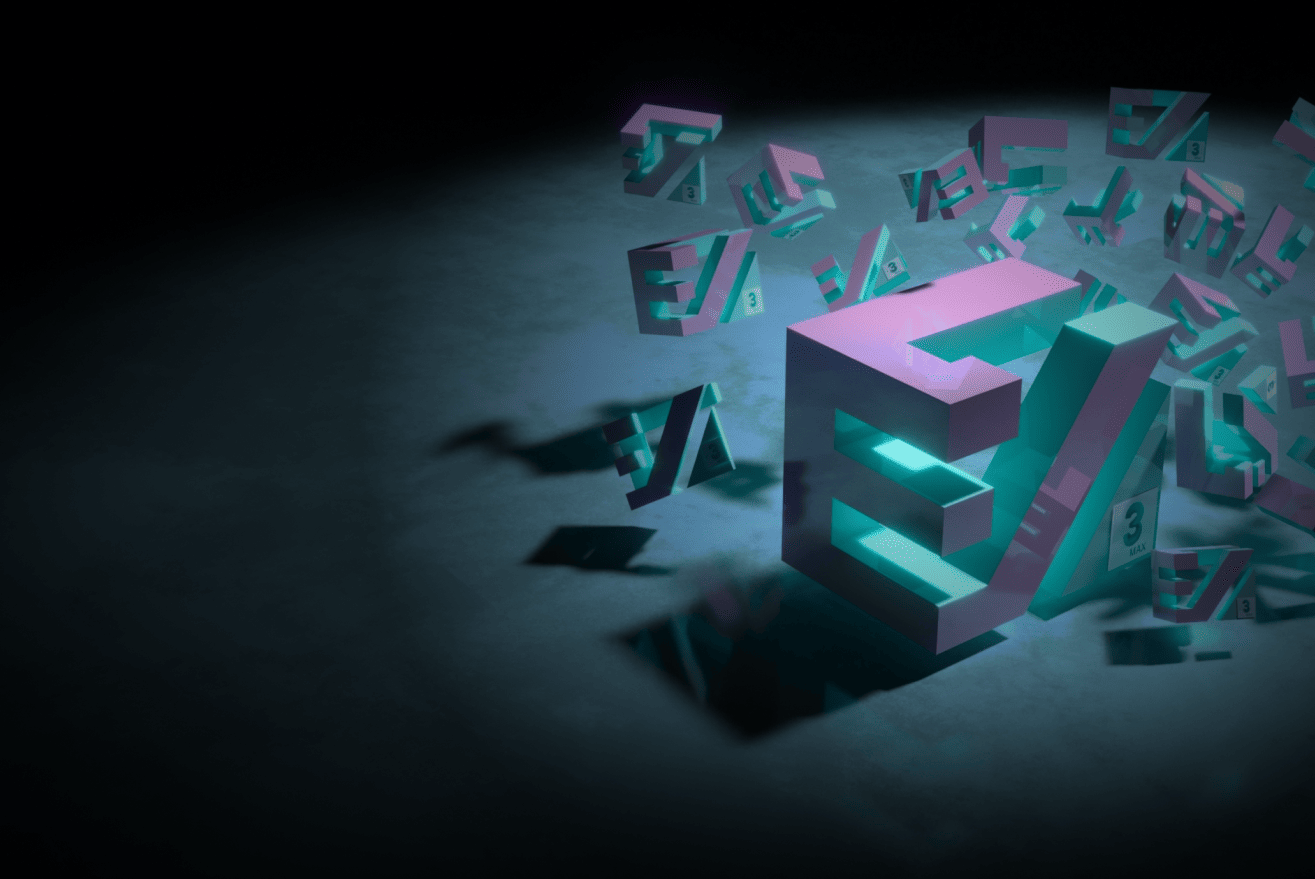
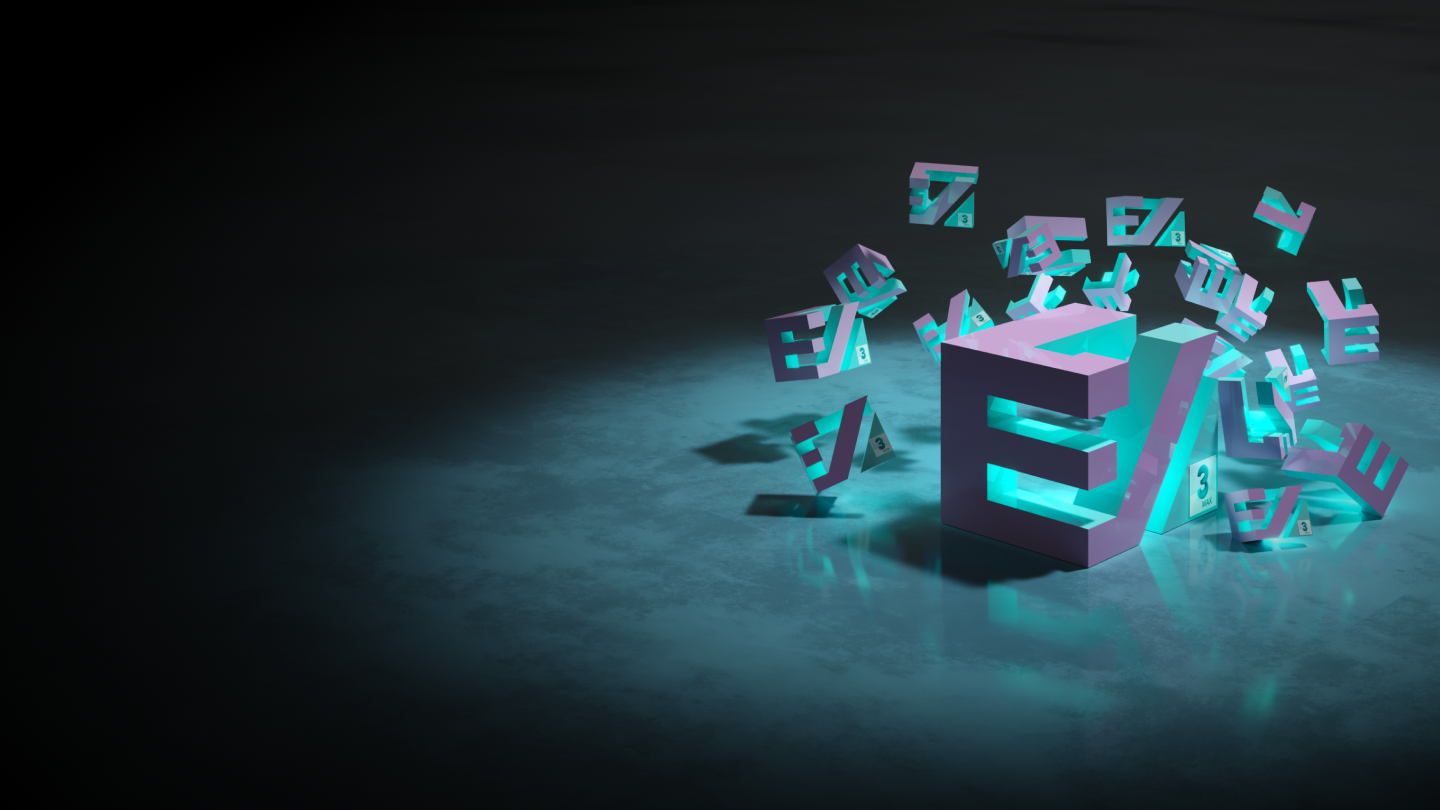
Add files via upload

diff --git a/resources/style.css b/resources/style.css
@@ -248,9 +248,11 @@ header.sticky li h3:hover {
     width: 100%;
     box-sizing: border-box;
     align-items: center;
-    padding: 300px 10% 90px;
+    /* padding: 300px 10% 90px; */
+    padding: 90px 10% 90px;
     /* background-image: url(./background2.png); */
-    background-image: url("../resources/images/background3333.png");
+    background-image: url("../resources/images/background3.png");
+    /* height: 100vh; */
     min-height: 100vh;
     background-position: right;
     background-size: cover;
@@ -259,6 +261,14 @@ header.sticky li h3:hover {
 .threeed {
     display: flex;
     align-items: center;
+    margin-bottom: 30px;
+}
+
+.first_one.left {
+    /* width: 45%; */
+    /* margin-right: 30px; */
+    height: 100%;
+    align-items: end;
 }
 
 .threeed h2 {
@@ -296,10 +306,7 @@ p.big_3d {
     color: #fff;
 } 
 
-.left {
-    /* width: 45%; */
-    margin-right: 30px;
-}
+
 
 .first_one img{
     width: 100%;
@@ -338,6 +345,10 @@ h3.button:hover {
     body {
         zoom: 150%;
     }
+
+    .first_one {
+        height: 65vh;
+    }
 }
 
 @media only screen and (min-width: 1481px) {
@@ -345,10 +356,9 @@ h3.button:hover {
         font-size: 70px;
     }
     
-
-
     .first_one {
-        min-height: 65vh;
+        /* height: 65vh; */
+        /* min-height: 65vh; */
     }
 
 }
@@ -381,6 +391,8 @@ h3.button:hover {
         margin-left: 0;
         /* text-shadow: 5px 5px #0e171b; */
     }
+
+
         
 }
 
@@ -424,21 +436,25 @@ h3.button:hover {
 
 /* @media only screen and (max-width:640px) { */
 /* @media only screen and (max-width:790px) { */
+    @media only screen and (min-width: 801px) {
+        .first_one .left {
+            margin-top: 30vh;
+            /* margin-top: 20vh; */
+        }
+    }
+
     @media only screen and (max-width:880px) {
     .first_one {
-        /* width: 100%; */
-        /* box-sizing: border-box; */
-        /* align-items: center; */
-        /* padding: 300px 10% 90px; */
-        background-image: url("../resources/images/background2222.png");
-        /* background-image: url(./background3.png); */
-        /* min-height: 100vh; */
+        background-image: url("../resources/images/background2.png");
         background-position: center;
-        /* background-size: cover; */
     }
 
     p.big_3d {
         font-size: 120px;
+    }
+
+    .first_one .left {
+        margin-top: 15vh;
     }
 }
 
@@ -460,7 +476,7 @@ h3.button:hover {
 
 @media only screen and (max-width: 450px) {
     .first_one {
-        padding: 300px 5% 90px;
+        padding: 90px 5% 90px;
     }
 }
 
@@ -489,6 +505,7 @@ h3.button:hover {
 
 .container_photo .photo {
     margin-right: 60px;
+    width: 230px;
 }
 
 .second_one .left {

diff --git a/resources/app_button.js b/resources/app_button.js
@@ -16,9 +16,12 @@ let Appear = function() {
     button.style.display = "none";
     buttontwo.style.display = "block";
 
-    gridone.style.gridTemplateColumns = "1fr 1fr";
-
+    if (window.screen.width < 600) {
+        // gridone.style.gridTemplateColumns = "1fr";
+        gridone.style.gridTemplateColumns = "1fr 1fr";
+    }
 }
+
 
 let Disappear = function() {
     closedPhoto.forEach(biba => {
@@ -28,6 +31,11 @@ let Disappear = function() {
     buttontwo.style.display = "none";
 
     gridone.style.gridTemplateColumns = "1fr";
+
+    if (window.screen.width < 600) {
+        gridone.style.gridTemplateColumns = "1fr";
+        // gridone.style.gridTemplateColumns = "1fr 1fr";
+    }
 }
 
 button.onclick = Appear;

diff --git a/index.html b/index.html
@@ -58,11 +58,10 @@
                         <h2>- визуализация</h2><br>
                         <h2>- моделирование </h1><br>
                         <h2>- текстурирование</h2>
-
-                </div>
+                    </div>
                 </div>
                 <h1></h1>
-                <h3 class="h2_margin_first">архитектурно-интерьерных проектов</h3>
+                <!-- <h3 class="h2_margin_first">архитектурно-интерьерных проектов</h3> -->
                 <a href="#zapis" ><h3 class="button">Обратиться</h3></a>
             </div>
 
